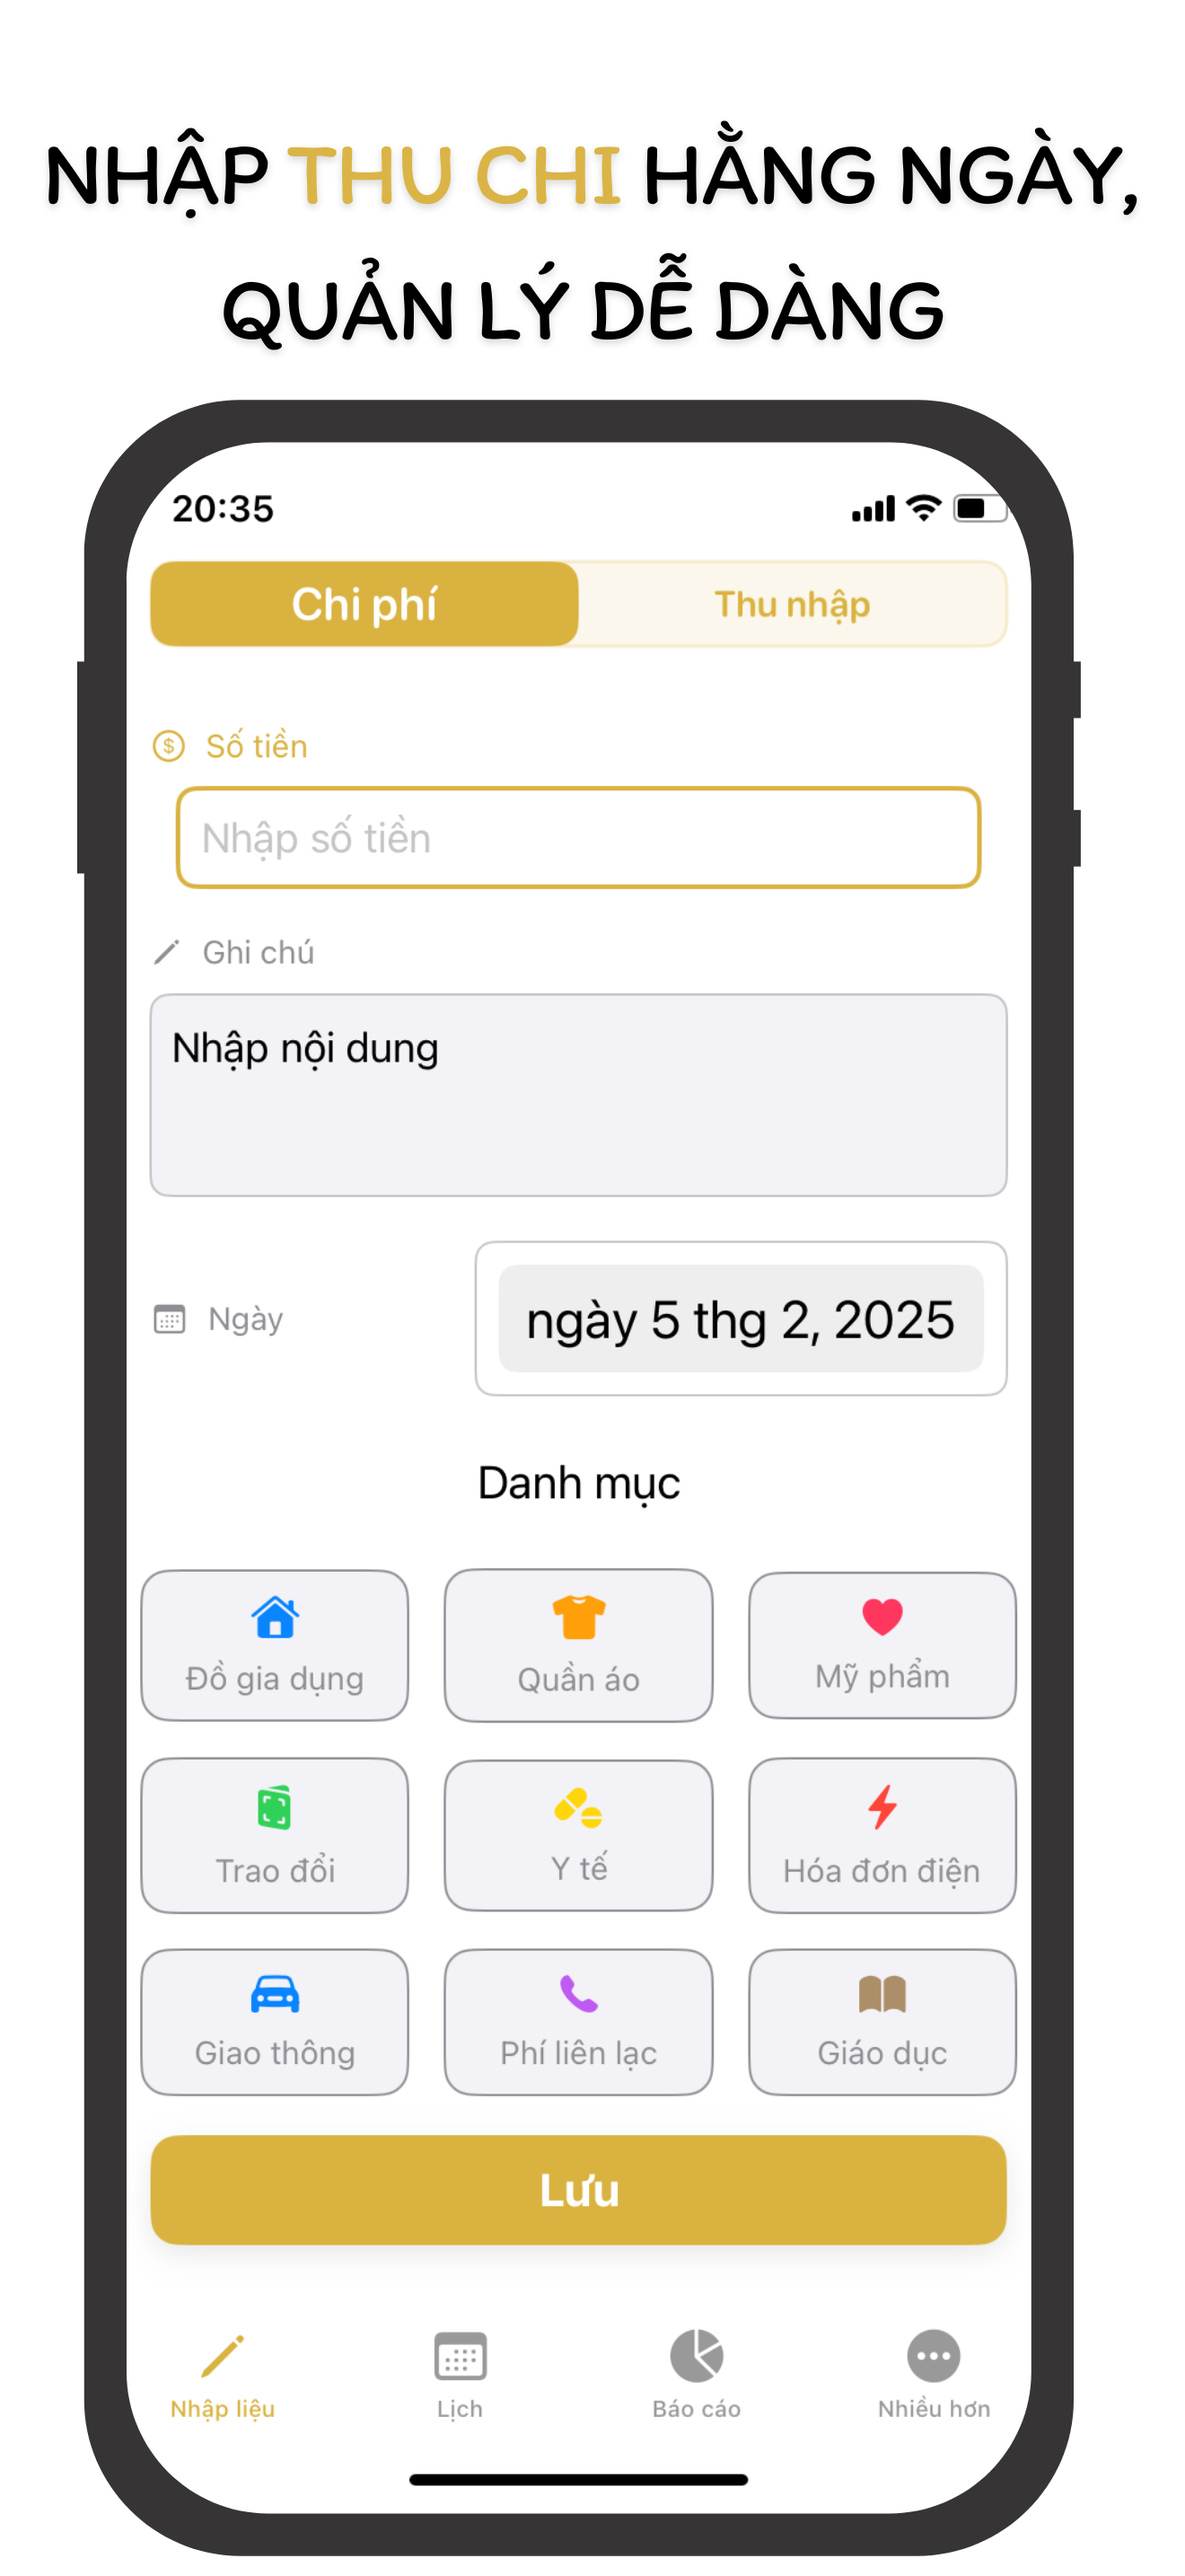
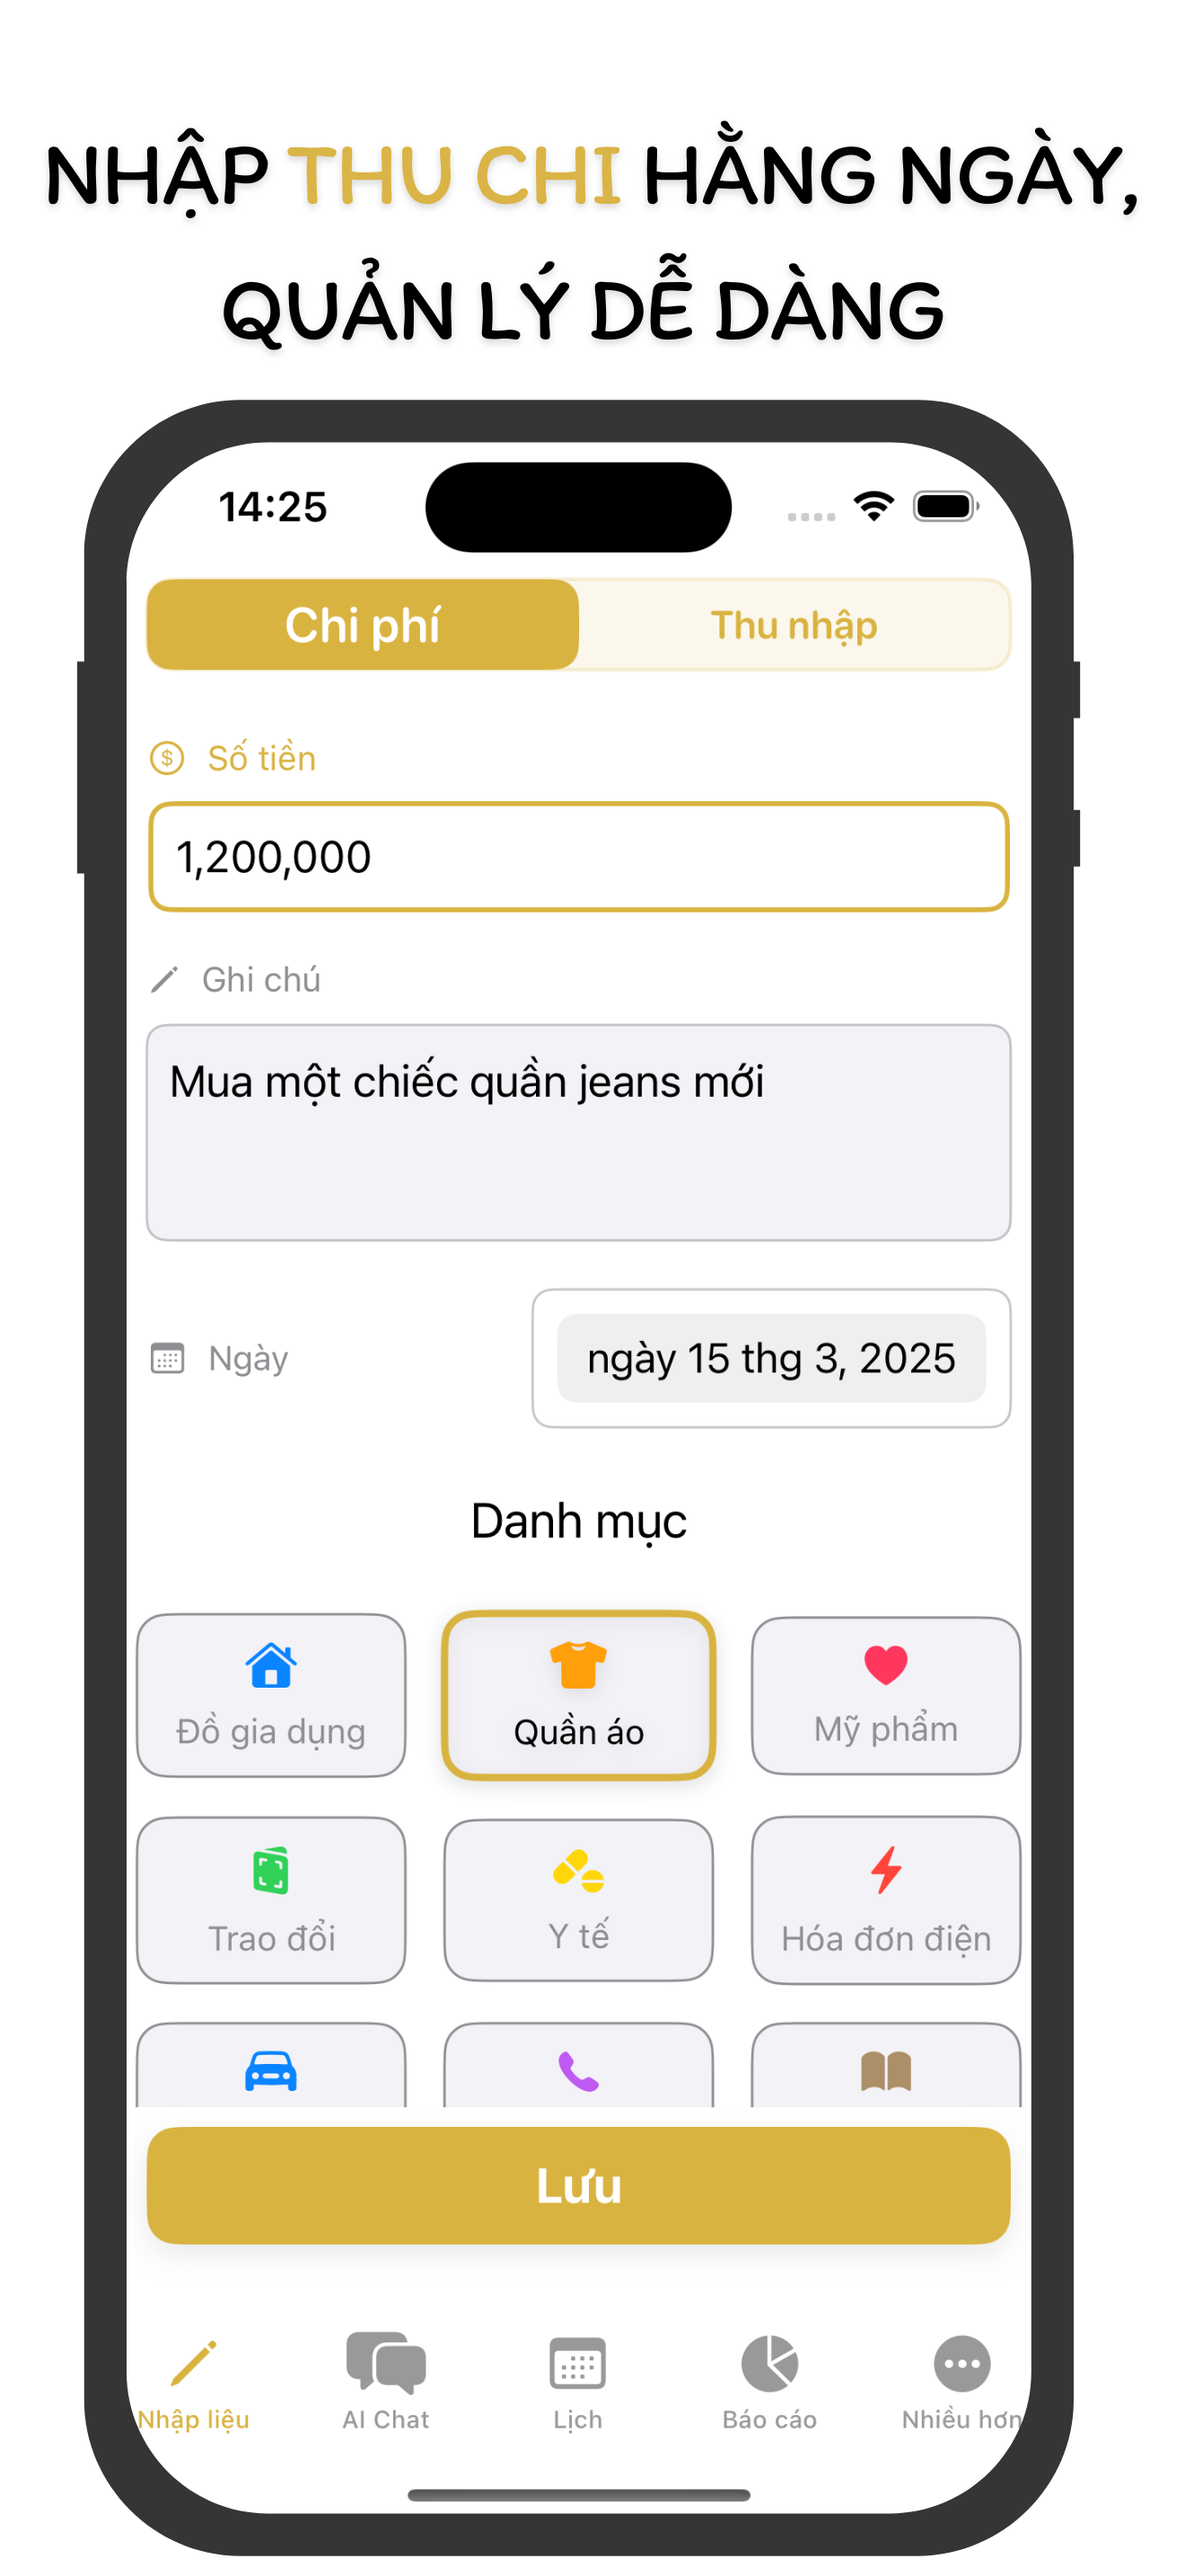
update code

diff --git a/moneybay/index.html b/moneybay/index.html
@@ -60,6 +60,12 @@
             <a href="assets/vi/6.png" class="lightbox">
 				<img src="assets/vi/6.png" class="app__screenshot" alt="MoneyBay" />
 			</a>
+            <a href="assets/vi/7.png" class="lightbox">
+				<img src="assets/vi/7.png" class="app__screenshot" alt="MoneyBay" />
+			</a>
+            <a href="assets/vi/8.png" class="lightbox">
+				<img src="assets/vi/8.png" class="app__screenshot" alt="MoneyBay" />
+			</a>
 		</div>
 	</div>
 </section>
@@ -79,6 +85,8 @@
             <li>🎨 <b>Chế độ màu sắc ứng dụng:</b> Lựa chọn từ nhiều màu chủ đề ứng dụng phong phú.</li>
             <li>📥 <b>Sao lưu và xuất dữ liệu CSV:</b> Dễ dàng xuất dữ liệu ra file CSV để lưu trữ hoặc chia sẻ.</li>
             <li>☁ <b>Đồng bộ iCloud:</b> Đồng bộ dữ liệu của bạn trên tất cả các thiết bị iOS thông qua iCloud để đảm bảo rằng bạn luôn có bản sao dữ liệu mới nhất mọi lúc, mọi nơi.</li>
+            <li>🤖 <b>Trợ lý AI:</b> Tương tác với AI thông qua trò chuyện và ghi chú bằng giọng nói để ghi lại các khoản thu chi một cách nhanh chóng và tiện lợi.</li>
+            <li>📄 <b>MoneyBay Scanner:</b> Quét tài liệu, hóa đơn, hợp đồng, danh thiếp, giấy tờ và nhiều hơn nữa, xuất ra định dạng PDF mà không có hình mờ, đảm bảo chất lượng tài liệu rõ ràng và chuyên nghiệp.</li>
         </ul>
 
         <b>Chi tiết các chức năng:</b>
